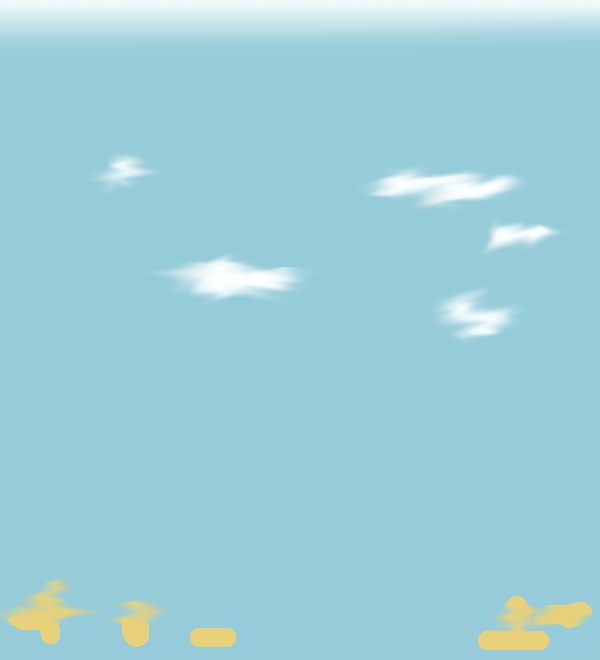
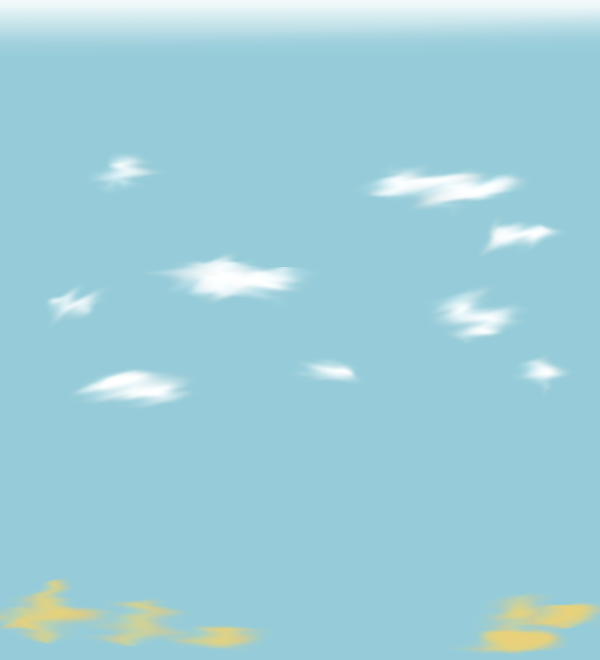
Improved background

diff --git a/core/src/com/ychstudio/background/Background.java b/core/src/com/ychstudio/background/Background.java
@@ -3,7 +3,6 @@ package com.ychstudio.background;
 import com.badlogic.gdx.assets.AssetManager;
 import com.badlogic.gdx.graphics.Texture;
 import com.badlogic.gdx.graphics.Texture.TextureFilter;
-import com.badlogic.gdx.graphics.Texture.TextureWrap;
 import com.badlogic.gdx.graphics.g2d.Sprite;
 import com.badlogic.gdx.graphics.g2d.SpriteBatch;
 import com.badlogic.gdx.math.Vector2;
@@ -14,7 +13,16 @@ public class Background {
     private SpriteBatch batch;
     
     private Sprite earthSprite;
-    private Texture spaceTexture;
+    private Texture starsTexture;
+    
+    private Sprite blueDustSprite1;
+    private Sprite blueDustSprite2;
+    private Sprite coldNebulaSprite;
+    private Sprite hotNebulaSprite;
+    private Sprite violetDustSprite;
+    private Sprite yellowDustSprite1;
+    private Sprite yellowDustSprite2;
+    private Sprite moonSprite;
     
     private float width;
     private float height;
@@ -27,16 +35,48 @@ public class Background {
     
     public Background(SpriteBatch batch, float width, float height) {
         this.batch = batch;
-        this.width = width * 2;
-        this.height = height;
+        this.width = width * 2 * 2.5f;
+        this.height = height * 2.5f;
         
         AssetManager assetManager = GM.getAssetManager();
         earthSprite = new Sprite(assetManager.get("images/EarthBackground.png", Texture.class));
         earthSprite.setBounds(-width, 0, width * 2, height);
         
-        spaceTexture = assetManager.get("images/SpaceBackground.png", Texture.class);
-        spaceTexture.setWrap(TextureWrap.Repeat, TextureWrap.Repeat);
-        spaceTexture.setFilter(TextureFilter.Linear, TextureFilter.Linear);
+        Texture blueDustTexture = assetManager.get("images/BlueDust.png", Texture.class);
+        Texture coldNebulaTexture = assetManager.get("images/ColdNebula.png", Texture.class);
+        Texture hotNebulaTexture = assetManager.get("images/HotNebula.png", Texture.class);
+        Texture violetDustTexture = assetManager.get("images/VioletDust.png", Texture.class);
+        Texture yellowDustTexture = assetManager.get("images/YellowDust.png", Texture.class);
+        Texture moonTexture = assetManager.get("images/Moon.png", Texture.class);
+        
+        blueDustTexture.setFilter(TextureFilter.Linear, TextureFilter.Linear);
+        coldNebulaTexture.setFilter(TextureFilter.Linear, TextureFilter.Linear);
+        hotNebulaTexture.setFilter(TextureFilter.Linear, TextureFilter.Linear);
+        violetDustTexture.setFilter(TextureFilter.Linear, TextureFilter.Linear);
+        yellowDustTexture.setFilter(TextureFilter.Linear, TextureFilter.Linear);
+        moonTexture.setFilter(TextureFilter.Linear, TextureFilter.Linear);
+        
+        blueDustSprite1 = new Sprite(blueDustTexture);
+        blueDustSprite2 = new Sprite(blueDustTexture);
+        coldNebulaSprite = new Sprite(coldNebulaTexture);
+        hotNebulaSprite = new Sprite(hotNebulaTexture);
+        violetDustSprite = new Sprite(violetDustTexture);
+        yellowDustSprite1 = new Sprite(yellowDustTexture);
+        yellowDustSprite2 = new Sprite(yellowDustTexture);
+        
+        blueDustSprite1.setBounds(-10f, 60f, 45f, 30f);
+        yellowDustSprite1.setBounds(-28f, 180f, 62f, 32f);
+        coldNebulaSprite.setBounds(-20f, 300f, 60f, 65f);
+        hotNebulaSprite.setBounds(-28f, 450f, 72f, 90f);
+        yellowDustSprite2.setBounds(-6f, 630f, 62f, 32f);
+        violetDustSprite.setBounds(-28f, 760f, 72f, 42f);
+        blueDustSprite2.setBounds(-16f, 880f, 45f, 30f);
+        
+        moonSprite = new Sprite(moonTexture);
+        moonSprite.setBounds(-2f, 980f, 52f, 52f);
+        
+        starsTexture = assetManager.get("images/Stars.png", Texture.class);
+        starsTexture.setFilter(TextureFilter.Linear, TextureFilter.Linear);
         
     }
     
@@ -75,10 +115,19 @@ public class Background {
         
         float offsetPercentY = offsetY / height;
         
-        batch.draw(spaceTexture, -width/4+offsetX, previousPlayerY-height/2, width, offsetY, 0, 1-offsetPercentY, 1, 1);
-        batch.draw(spaceTexture, -width/4+offsetX, previousPlayerY-height/2+offsetY, width, height-offsetY, 0, 0, 1, 1-offsetPercentY);
+        batch.draw(starsTexture, -width/4+offsetX, previousPlayerY-height/2, width, offsetY, 0, 1-offsetPercentY, 1, 1);
+        batch.draw(starsTexture, -width/4+offsetX, previousPlayerY-height/2+offsetY, width, height-offsetY, 0, 0, 1, 1-offsetPercentY);
         
         earthSprite.draw(batch);
+        blueDustSprite1.draw(batch);
+        blueDustSprite2.draw(batch);
+        coldNebulaSprite.draw(batch);
+        hotNebulaSprite.draw(batch);
+        violetDustSprite.draw(batch);
+        yellowDustSprite1.draw(batch);
+        yellowDustSprite2.draw(batch);
+        
+        moonSprite.draw(batch);
     }
     
 }

diff --git a/core/src/com/ychstudio/screens/MenuScreen.java b/core/src/com/ychstudio/screens/MenuScreen.java
@@ -11,7 +11,6 @@ import com.badlogic.gdx.graphics.g2d.BitmapFont;
 import com.badlogic.gdx.graphics.g2d.SpriteBatch;
 import com.badlogic.gdx.graphics.g2d.freetype.FreeTypeFontGenerator;
 import com.badlogic.gdx.graphics.g2d.freetype.FreeTypeFontGenerator.FreeTypeFontParameter;
-import com.badlogic.gdx.math.MathUtils;
 import com.badlogic.gdx.scenes.scene2d.Stage;
 import com.badlogic.gdx.scenes.scene2d.actions.Actions;
 import com.badlogic.gdx.scenes.scene2d.ui.Image;
@@ -33,8 +32,6 @@ public class MenuScreen implements Screen {
     private Color unselectedColor = new Color(0.6f, 0.6f, 0.6f, 1.0f);
     private int selected = 0;
     private Array<Label> options;
-
-    private Array<Image> rocks;
 
     private AssetManager assetManager;
 
@@ -63,18 +60,9 @@ public class MenuScreen implements Screen {
 
         viewport = new FitViewport(Gdx.graphics.getWidth(), Gdx.graphics.getHeight());
         stage = new Stage(viewport, batch);
-
-        // rocks
-        rocks = new Array<>();
-        for (int i = 0; i < 60; i++) {
-            Image rock = new Image(assetManager.get("images/Rock.png", Texture.class));
-            rock.setScale(MathUtils.random(0.4f, 1.2f));
-            rock.setOrigin(rock.getWidth() / 2, rock.getHeight() / 2);
-            rock.setPosition(MathUtils.random(0, Gdx.graphics.getWidth()), MathUtils.random(0, Gdx.graphics.getHeight()));
-            rock.addAction(Actions.forever(Actions.parallel(Actions.rotateBy(MathUtils.random(66f), 1f), Actions.moveBy(MathUtils.random(60f) - 30f, MathUtils.random(60f) - 30f, MathUtils.random(1f, 3f)))));
-            stage.addActor(rock);
-            rocks.add(rock);
-        }
+        
+        Image starsImage = new Image(assetManager.get("images/Stars.png", Texture.class));
+        stage.addActor(starsImage);
 
         Label titleLabel = new Label("SpaceRocket", new Label.LabelStyle(monoFont64, Color.WHITE));
         titleLabel.setPosition((Gdx.graphics.getWidth() - titleLabel.getWidth()) / 2, Gdx.graphics.getHeight() - 180);
@@ -95,8 +83,6 @@ public class MenuScreen implements Screen {
         
         startGameLabel.addAction(Actions.color(selectedColor));
         exitGameLabel.addAction(Actions.color(unselectedColor));
-
-
 
         paused = false;
         
@@ -127,22 +113,6 @@ public class MenuScreen implements Screen {
             }
         }
 
-        for (Image rock : rocks) {
-            if (rock.getX() < -rock.getWidth()) {
-                rock.setX(Gdx.graphics.getWidth() + rock.getWidth());
-            }
-            else if (rock.getX() > Gdx.graphics.getWidth() + rock.getWidth()) {
-                rock.setX(-rock.getWidth());
-            }
-
-            if (rock.getY() < -rock.getHeight()) {
-                rock.setY(Gdx.graphics.getHeight() + rock.getHeight());
-            }
-            else if (rock.getY() > Gdx.graphics.getHeight() + rock.getHeight()) {
-                rock.setY(-rock.getHeight());
-            }
-        }
-        
         stage.act(delta);
     }
 
@@ -152,7 +122,7 @@ public class MenuScreen implements Screen {
             update(delta);
         }
         
-        Gdx.gl.glClearColor(0.2f, 0.2f, 0.3f, 1f);
+        Gdx.gl.glClearColor(0.1f, 0.1f, 0.15f, 1f);
         Gdx.gl.glClear(GL20.GL_COLOR_BUFFER_BIT);
         stage.draw();
     }

diff --git a/core/src/com/ychstudio/gamesys/GM.java b/core/src/com/ychstudio/gamesys/GM.java
@@ -33,9 +33,15 @@ public class GM {
         assetManager.load("images/Rock32.png", Texture.class);
         assetManager.load("images/SpaceShip.png", Texture.class);
         assetManager.load("images/Flame.png", Texture.class);
-        assetManager.load("images/Ground.png", Texture.class);
         assetManager.load("images/EarthBackground.png", Texture.class);
-        assetManager.load("images/SpaceBackground.png", Texture.class);
+        assetManager.load("images/Stars.png", Texture.class);
+        assetManager.load("images/BlueDust.png", Texture.class);
+        assetManager.load("images/ColdNebula.png", Texture.class);
+        assetManager.load("images/HotNebula.png", Texture.class);
+        assetManager.load("images/VioletDust.png", Texture.class);
+        assetManager.load("images/YellowDust.png", Texture.class);
+        assetManager.load("images/Moon.png", Texture.class);
+        assetManager.load("images/Earth.png", Texture.class);
         assetManager.finishLoading();
     }
 }

diff --git a/core/src/com/ychstudio/gamesys/ActorBuilder.java b/core/src/com/ychstudio/gamesys/ActorBuilder.java
@@ -29,8 +29,8 @@ public class ActorBuilder {
     public static Ground createGround(float x, float y) {
         World world = instance.world;
         AssetManager assetManager = instance.assetManager;
-        // TODO requires texture
-        Sprite sprite = new Sprite(assetManager.get("images/Ground.png", Texture.class));
+        Texture earthTexture = assetManager.get("images/Earth.png", Texture.class);
+        Sprite sprite = new Sprite(earthTexture);
         
         BodyDef bodyDef = new BodyDef();
         bodyDef.type = BodyType.StaticBody;

diff --git a/core/src/com/ychstudio/actors/Ground.java b/core/src/com/ychstudio/actors/Ground.java
@@ -8,6 +8,11 @@ public class Ground extends Actor{
 
     public Ground(Body body, Sprite sprite, float width, float height) {
         super(body, sprite, width, height);
+        
+        this.width = 40f;
+        this.height = 8f;
+        
+        sprite.setBounds(x - this.width / 2, y - this.height / 2 - 2.4f, this.width, this.height);
     }
 
     @Override

diff --git a/core/src/com/ychstudio/screens/PlayScreen.java b/core/src/com/ychstudio/screens/PlayScreen.java
@@ -162,7 +162,7 @@ public class PlayScreen implements Screen{
             update(delta);
         }
         
-        Gdx.gl.glClearColor(0.2f, 0.2f, 0.25f, 1.0f);
+        Gdx.gl.glClearColor(0.1f, 0.1f, 0.15f, 1.0f);
         Gdx.gl.glClear(GL20.GL_COLOR_BUFFER_BIT);
         
         
